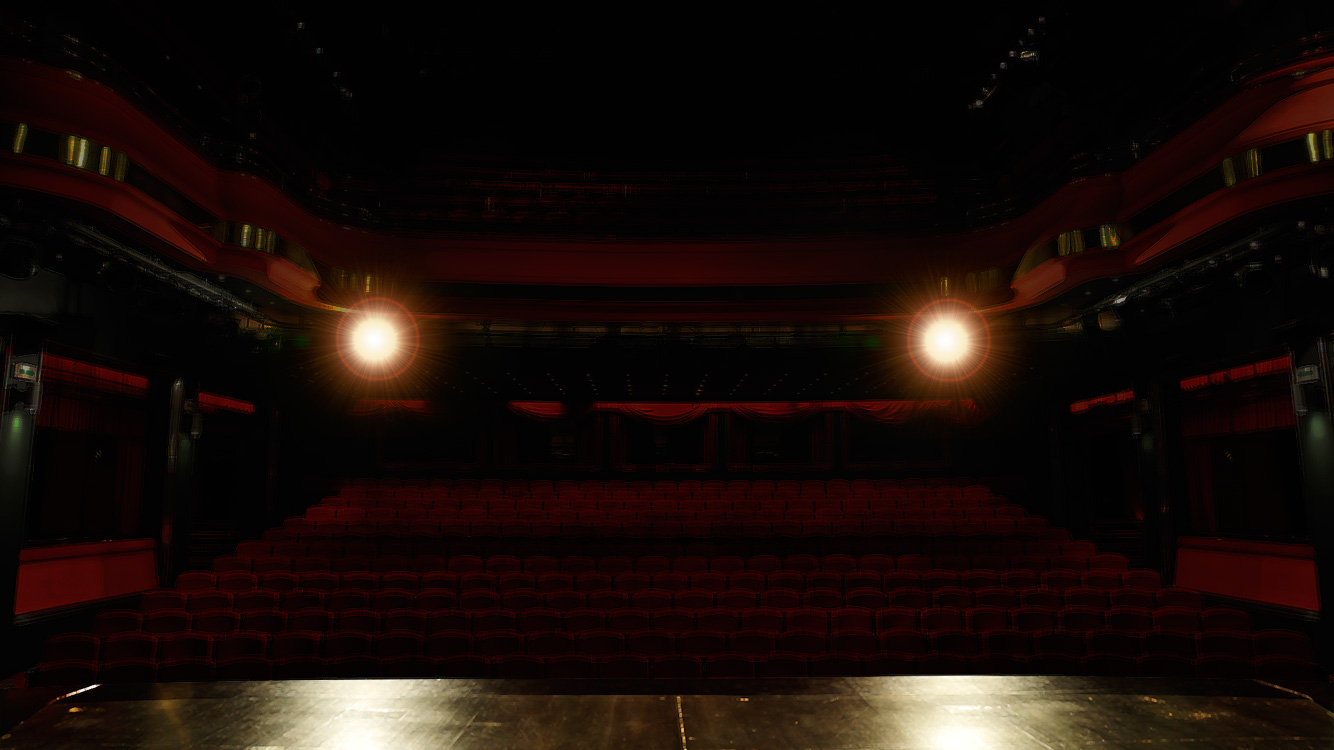
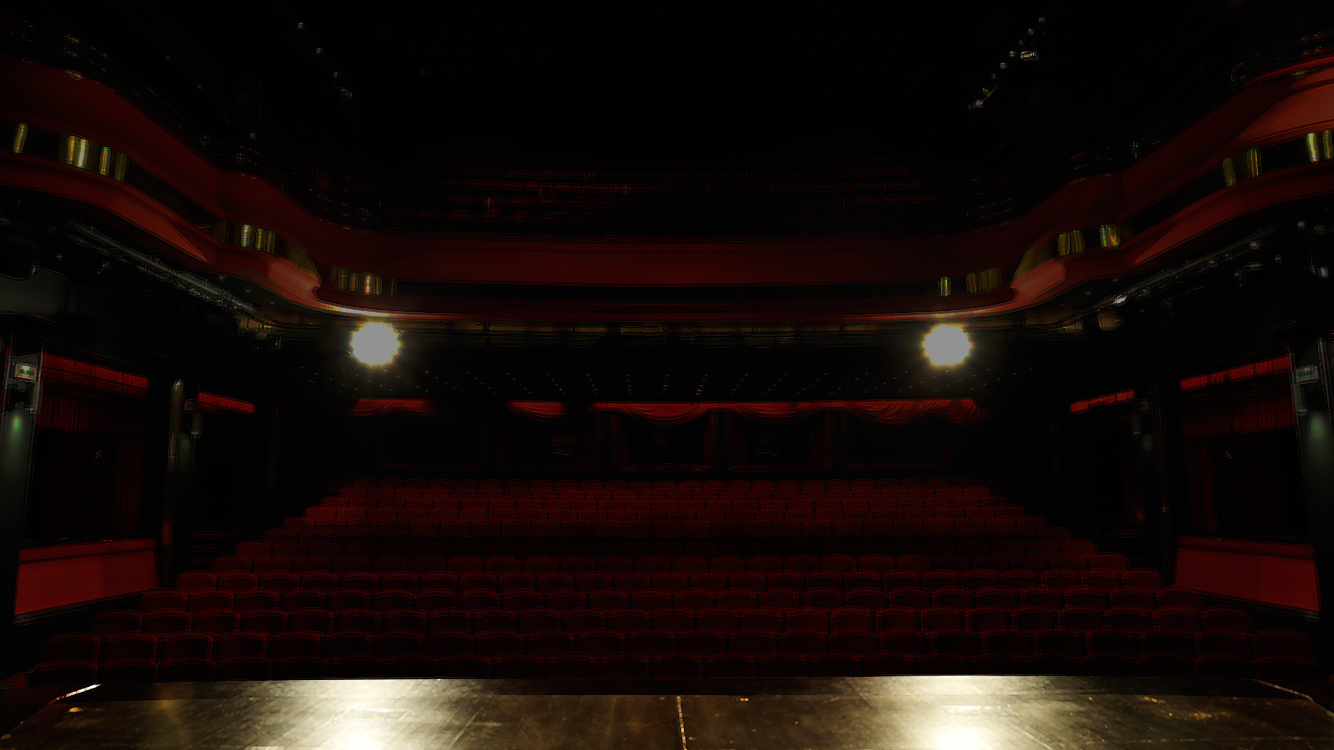
ambient bg animations

Changed region(s): [[0.2151, 0.368, 0.3381, 0.552], [0.6454, 0.368, 0.7684, 0.552]]

diff --git a/src/js/view/AudienceView.js b/src/js/view/AudienceView.js
@@ -30,6 +30,7 @@ define(function(require) {
 
         var queue = new createjs.LoadQueue();
         queue.loadFile({id:'bg', src:'assets/img/audience/bg.jpg'});
+        queue.loadFile({id:'light', src:'assets/img/audience/light.png'});
         queue.loadFile({id:'silhouette-1', src:'assets/img/audience/silhouette-1.png'});
         queue.loadFile({id:'silhouette-2', src:'assets/img/audience/silhouette-2.png'});
         queue.loadFile({id:'silhouette-3', src:'assets/img/audience/silhouette-3.png'});
@@ -37,6 +38,22 @@ define(function(require) {
         queue.addEventListener("complete", function(){
             var bg = new createjs.Bitmap(queue.getResult('bg'));
             this.addChild(bg);
+
+            this.light1 = new createjs.Bitmap(queue.getResult('light'));
+            this.light1.regX = 135;
+            this.light1.regY = 95;
+            this.light1.x = 379;
+            this.light1.y = 344;
+            this.light1.compositeOperation = 'lighten';
+            this.addChild(this.light1);
+
+            this.light2 = new createjs.Bitmap(queue.getResult('light'));
+            this.light2.regX = 135;
+            this.light2.regY = 95;
+            this.light2.x = 949;
+            this.light2.y = 346;
+            this.light2.compositeOperation = 'lighten';
+            this.addChild(this.light2);
 
             seatRows.forEach(function(row){
                 this._fillSeatsRow(row.y, row.xStart, row.xEnd, row.xSpacing, row.scale, queue);
@@ -73,8 +90,17 @@ define(function(require) {
 
         this.audience.forEach(function(a){
             a.y = a.originalY;
-            TweenMax.to(a, Math.random()+0.2, {y:'-=2', repeat:-1, yoyo:true, delay:Math.random(), ease:'Linear.easeNone'});
+            TweenMax.to(a, Math.random()+0.2, {y:'-=5', repeat:-1, yoyo:true, delay:Math.random(), ease:'Linear.easeNone'});
         });
+
+        this.light1.rotation = Math.random()*180;
+        this.light2.rotation = Math.random()*180;
+        this.light1.scaleX = this.light1.scaleY = 1;
+        this.light2.scaleX = this.light2.scaleY = 1;
+        var light1Scale = 1.2 + Math.random()*0.5;
+        var light2Scale = 1.2 + Math.random()*0.5;
+        TweenMax.to(this.light1, 10, {rotation: this.light1.rotation + 100, scaleX: light1Scale, scaleY: light1Scale, ease: 'Linear.easeNone'});
+        TweenMax.to(this.light2, 10, {rotation: this.light2.rotation + 100, scaleX: light2Scale, scaleY: light2Scale, ease: 'Linear.easeNone'});
     };
 
     AudienceView.prototype.hide = function(){

diff --git a/src/js/view/SceneView.js b/src/js/view/SceneView.js
@@ -51,6 +51,28 @@ define(function(require) {
         this.backdrop = new BackdropView();
         this.backdrop.x = width/2;
 
+        this.dust = new createjs.Container();
+        for ( var i=0; i<5; i++ ) {
+            (function(x){
+                var d = new createjs.Bitmap('assets/img/game/dust.png');
+                d.regX = 256;
+                d.compositeOperation = 'overlay';
+                this.dust.addChild(d);
+                var animate = function(){
+                    d.alpha = 0;
+                    d.rotation = Math.random()*20;
+                    d.scaleX = d.scaleY = 0.75 + Math.random()*0.25;
+                    d.x = x + Math.random()*100 - 50;
+                    d.y = Math.random()*400;
+                    var length = 10+Math.random()*5;
+                    var delay = Math.random()*5;
+                    TweenMax.to(d, length/2, {alpha: 0.5, yoyo:true, repeat:1, delay:delay, ease:'Linear.easeNone'});
+                    TweenMax.to(d, length, {y: d.y+100+Math.random()*50, delay:delay, ease:'Linear.easeNone', onComplete:animate});
+                };
+                animate();
+            }.bind(this))(400 + 500/4*i);
+        }
+
         this.curtains = new createjs.Container();
         var curtainLeft = new createjs.Bitmap('assets/img/game/bg-stage-curtain-left.png');
         var curtainRight = new createjs.Bitmap('assets/img/game/bg-stage-curtain-right.png');
@@ -101,6 +123,7 @@ define(function(require) {
 
         this.addChild(this.background);
         this.addChild(this.backdrop);
+        this.addChild(this.dust);
         this.addChild(this.curtains);
         this.addChild(this.morro);
         this.addChild(this.jasp);

diff --git a/src/js/view/BackgroundView.js b/src/js/view/BackgroundView.js
@@ -2,6 +2,13 @@
 define(function(require) {
     var BackgroundView = function () {
         createjs.Container.call(this);
+
+        this.black = new createjs.Shape();
+        this.black.graphics.beginFill('black');
+        this.black.graphics.drawRect(0, 0, game.width, game.height);
+        this.addChild(this.black);
+
+        this._flicker();
     };
     BackgroundView.prototype = Object.create(createjs.Container.prototype);
     BackgroundView.prototype.constructor = BackgroundView;
@@ -22,6 +29,13 @@ define(function(require) {
             if ( onLoaded ) onLoaded.call();
         }.bind(this));
     };
+
+    BackgroundView.prototype._flicker = function() {
+        if ( this.bmp ) {
+            TweenMax.to(this.bmp, 1 + Math.random()*3, {alpha: 0.9, repeat: 1, yoyo: true});
+        }
+        TweenMax.delayedCall(5 + Math.random()*10, this._flicker.bind(this)); // will be killed on state change
+    }
 
     createjs.promote(BackgroundView, "super");
     return BackgroundView;
